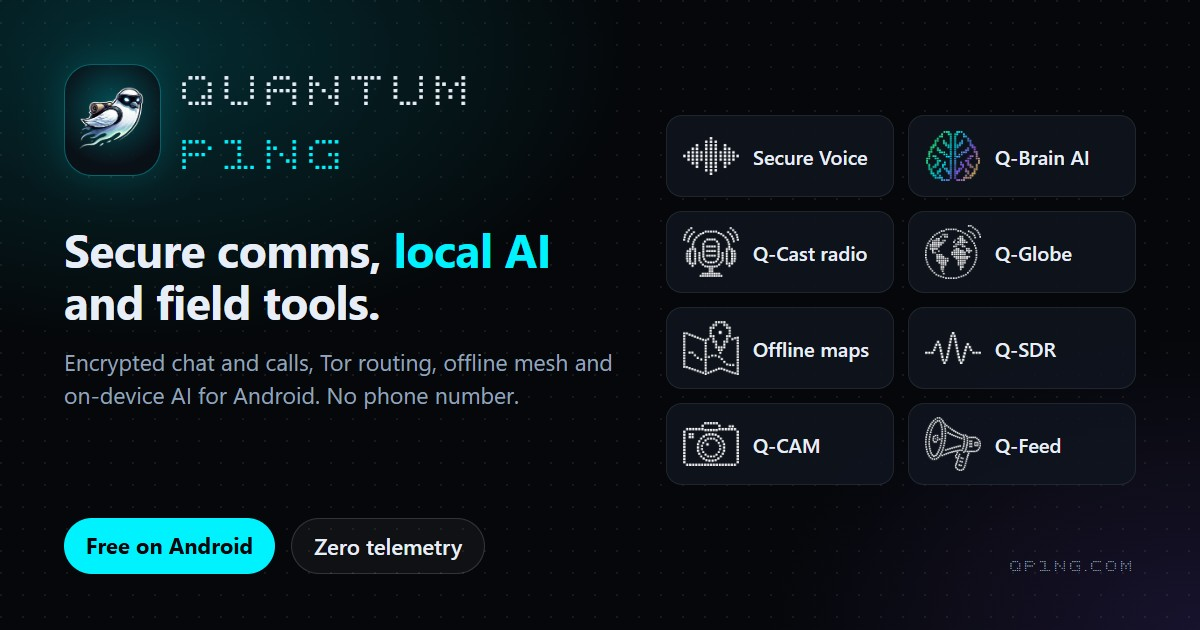
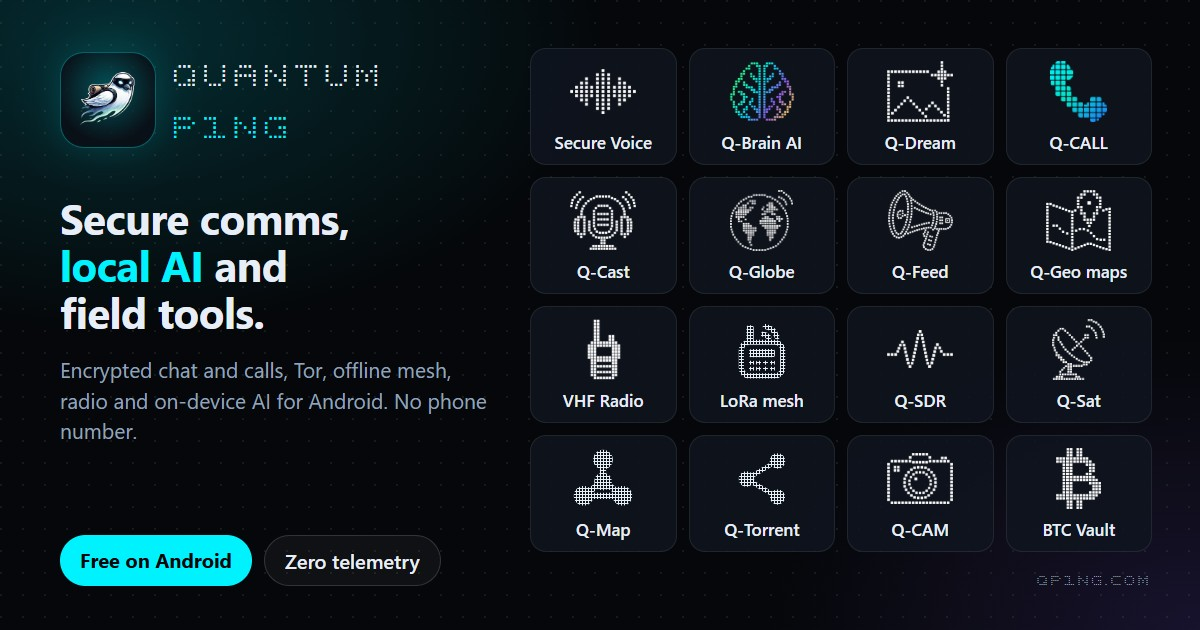
Home and map studio heads: sixteen tools in the home preview, accurate structured data, a Q-Geo card
- Home preview redrawn with sixteen of the app's tools in a 4x4 grid (Secure Voice, Q-Brain AI, Q-Dream, Q-CALL,
  Q-Cast, Q-Globe, Q-Feed, Q-Geo, VHF radio, LoRa mesh, Q-SDR, Q-Sat, Q-Map, Q-Torrent, Q-CAM, BTC vault), the
  home's dot-matrix icons; LoRa, Q-Map and Q-Torrent use the app's vector icons in the same dotted look.
- Home structured data matches the product: Android 8.0 or later (the Linux shell runs inside the app), Core free and
  Pro EUR 9.99 instead of "10 USD", downloads from /pro/, no invented version "1.0.0-gold" or size "48MB",
  ZonkeyNet as on the legal pages.
- Home head: og:title like the title; no X-Content-Type-Options meta (only the HTTP header works, and the gateway
  sends it); no shrink-to-fit; no preload of two video posters far down the page.
- pmtiles.html (Q-Geo Map Studio): its own 1200x630 preview (og-geo.jpg), canonical, theme-color, robots, complete
  Open Graph and X cards, schema.org WebApplication (free, in the browser).

Checked in Chrome: home and map studio load with no CSP or console errors, structured data parses.

diff --git a/docs/index.html b/docs/index.html
@@ -2,11 +2,10 @@
 <html lang="en">
 <head>
   <meta charset="utf-8" />
-  <meta name="viewport" content="width=device-width, initial-scale=1, shrink-to-fit=no" />
+  <meta name="viewport" content="width=device-width, initial-scale=1" />
 
   <meta http-equiv="Content-Security-Policy" content="default-src 'self'; img-src 'self' data: blob: https://github.com https://raw.githubusercontent.com https://*.tile.openstreetmap.org https://tile.openstreetmap.org https://*.arcgisonline.com https://server.arcgisonline.com https://services.arcgisonline.com; font-src 'self' data:; media-src 'self' data: blob:; style-src 'self' 'unsafe-inline'; script-src 'self' 'unsafe-inline' 'unsafe-eval'; connect-src 'self' https://api.qp1ng.com wss://api.qp1ng.com https://raw.githubusercontent.com https://zonkeynet.github.io https://*.tile.openstreetmap.org https://tile.openstreetmap.org https://*.arcgisonline.com https://server.arcgisonline.com https://services.arcgisonline.com https://nominatim.openstreetmap.org https://build.protomaps.com https://slice.openstreetmap.us blob:; object-src 'none'; worker-src 'self' blob:;" />
   <meta name="referrer" content="no-referrer" />
-  <meta http-equiv="X-Content-Type-Options" content="nosniff" />
 
   <meta name="theme-color" content="#0b0f14" />
   <link rel="icon" type="image/png" sizes="32x32" href="assets/img/favicon-32.png" />
@@ -21,7 +20,7 @@
   <meta name="description" content="Quantum P1NG for Android: secure messaging, local AI, encrypted vaults and field tools. Broadcast with Q-Cast and explore radio stations on Q-Globe." />
 
   <meta name="keywords" content="Tor messaging, secure notes, encrypted vault, local AI, secure dictation, emergency workflows, RadioBridge, RF lab tools, Q-Cast, Q-Globe, Tor radio, internet radio, OPSEC, anti-forensics, qp1ng" />
-  <meta name="author" content="Zonkeynet" />
+  <meta name="author" content="ZonkeyNet" />
   <meta name="robots" content="index, follow, max-image-preview:large, max-snippet:-1, max-video-preview:-1" />
 
   <!-- Open Graph / Facebook -->
@@ -29,14 +28,14 @@
   <meta property="og:url" content="https://www.qp1ng.com/" />
   <meta property="og:site_name" content="Quantum P1NG" />
   <meta property="og:locale" content="en_US" />
-  <meta property="og:title" content="Quantum P1NG - OPSEC-First Secure Communications Suite" />
+  <meta property="og:title" content="Quantum P1NG - Secure Comms, Local AI & Field Tools" />
   <meta property="og:description" content="Quantum P1NG for Android: secure messaging, local AI, encrypted vaults and field tools. Broadcast with Q-Cast and explore radio stations on Q-Globe." />
   <meta property="og:image" content="https://www.qp1ng.com/assets/img/social-preview-1200.jpg" />
   <meta property="og:image:secure_url" content="https://www.qp1ng.com/assets/img/social-preview-1200.jpg" />
   <meta property="og:image:type" content="image/jpeg" />
   <meta property="og:image:width" content="1200" />
   <meta property="og:image:height" content="630" />
-  <meta property="og:image:alt" content="Quantum P1NG: secure comms, local AI and field tools for Android: Secure Voice, Q-Brain AI, Q-Cast, Q-Globe, offline maps, Q-SDR, Q-CAM, Q-Feed" />
+  <meta property="og:image:alt" content="Quantum P1NG: secure comms, local AI and field tools for Android: Secure Voice, Q-Brain AI, Q-Dream, Q-CALL, Q-Cast, Q-Globe, Q-Feed, Q-Geo maps, VHF radio, LoRa mesh, Q-SDR, Q-Sat, Q-Map, Q-Torrent, Q-CAM and the Bitcoin vault" />
 
   <!-- Twitter / X -->
   <meta name="twitter:card" content="summary_large_image" />
@@ -45,14 +44,12 @@
   <meta name="twitter:title" content="Quantum P1NG - Secure Comms, Local AI & Field Tools" />
   <meta name="twitter:description" content="Quantum P1NG for Android: secure messaging, local AI, encrypted vaults and field tools. Broadcast with Q-Cast and explore radio stations on Q-Globe." />
   <meta name="twitter:image" content="https://www.qp1ng.com/assets/img/social-preview-1200.jpg" />
-  <meta name="twitter:image:alt" content="Quantum P1NG: secure comms, local AI and field tools for Android: Secure Voice, Q-Brain AI, Q-Cast, Q-Globe, offline maps, Q-SDR, Q-CAM, Q-Feed" />
+  <meta name="twitter:image:alt" content="Quantum P1NG: secure comms, local AI and field tools for Android: Secure Voice, Q-Brain AI, Q-Dream, Q-CALL, Q-Cast, Q-Globe, Q-Feed, Q-Geo maps, VHF radio, LoRa mesh, Q-SDR, Q-Sat, Q-Map, Q-Torrent, Q-CAM and the Bitcoin vault" />
 
   <link rel="preload" href="assets/fonts/square_dot_digital_qp1ng.woff2" as="font" type="font/woff2" crossorigin />
   <link rel="preload" href="styles.css?v=3.1.5" as="style" />
   <link rel="preload" as="image" href="assets/vid/intro_bg_poster.webp" type="image/webp" media="(min-width: 769px)" fetchpriority="high" />
   <link rel="preload" as="image" href="assets/vid/intro_mobile_poster.webp" type="image/webp" media="(max-width: 768px)" fetchpriority="high" />
-  <link rel="preload" as="image" href="assets/vid/qmap_poster.webp">
-  <link rel="preload" as="image" href="assets/vid/btc_vault_poster.webp" type="image/webp">
   <link rel="preload" as="image" href="assets/img/qp1ng_icon.png" fetchpriority="high" />
   <script>
     try {
@@ -79,7 +76,7 @@
         "@id": "https://www.qp1ng.com/#website",
         "url": "https://www.qp1ng.com/",
         "name": "Quantum P1NG",
-        "description": "OPSEC-first Android and Linux suite for private communications, encrypted vaults, local AI dictation, and offline field tools.",
+        "description": "OPSEC-first Android suite for private communications, encrypted vaults, local AI and offline field tools.",
         "publisher": {
           "@id": "https://www.qp1ng.com/#organization"
         },
@@ -88,7 +85,7 @@
       {
         "@type": "Organization",
         "@id": "https://www.qp1ng.com/#organization",
-        "name": "Zonkeynet",
+        "name": "ZonkeyNet",
         "url": "https://www.qp1ng.com/",
         "logo": {
           "@type": "ImageObject",
@@ -119,29 +116,41 @@
           "Quantum P1NG Suite"
         ],
         "applicationCategory": "SecurityApplication",
-        "operatingSystem": "Android, Linux",
-        "softwareVersion": "1.0.0-gold",
-        "fileSize": "48MB",
+        "operatingSystem": "Android 8.0 or later",
         "license": "https://www.qp1ng.com/license.html",
         "description": "OPSEC-first Android suite for private communications, encrypted vaults, local AI, secure dictation, emergency workflows and optional RF lab tools.",
         "url": "https://www.qp1ng.com/",
-        "downloadUrl": "https://github.com/zonkeynet/Quantum-P1NG/releases",
-        "installUrl": "https://github.com/zonkeynet/Quantum-P1NG/releases/latest",
+        "downloadUrl": "https://www.qp1ng.com/pro/#download",
         "image": "https://www.qp1ng.com/assets/img/qp1ng_icon.png",
         "screenshot": [
-          "https://www.qp1ng.com/assets/img/social-preview.png",
+          "https://www.qp1ng.com/assets/img/social-preview-1200.jpg",
           "https://www.qp1ng.com/assets/img/qcam_manifestation_protected.jpg",
           "https://www.qp1ng.com/assets/img/net_invisibility.png"
         ],
-        "offers": {
-          "@type": "Offer",
-          "price": "10",
-          "priceCurrency": "USD",
-          "availability": "https://schema.org/InStock",
-          "seller": {
-            "@id": "https://www.qp1ng.com/#organization"
+        "offers": [
+          {
+            "@type": "Offer",
+            "name": "Q-P1NG Core",
+            "price": "0",
+            "priceCurrency": "EUR",
+            "availability": "https://schema.org/InStock",
+            "url": "https://www.qp1ng.com/pro/#download",
+            "seller": {
+              "@id": "https://www.qp1ng.com/#organization"
+            }
+          },
+          {
+            "@type": "Offer",
+            "name": "Q-P1NG Pro, lifetime licence",
+            "price": "9.99",
+            "priceCurrency": "EUR",
+            "availability": "https://schema.org/InStock",
+            "url": "https://www.qp1ng.com/pro/",
+            "seller": {
+              "@id": "https://www.qp1ng.com/#organization"
+            }
           }
-        },
+        ],
         "featureList": [
           "Optical and Acoustic Links (No RF Link Required)",
           "Local Whisper STT speech-to-text dictation and private voice notes without cloud APIs",
@@ -203,7 +212,7 @@
             "name": "What is Quantum P1NG?",
             "acceptedAnswer": {
               "@type": "Answer",
-              "text": "Quantum P1NG is an OPSEC-first tactical Android and Linux suite engineered for high-threat environments. It combines decentralized zero-metadata messaging, encrypted offline vaults, local AI voice dictation, tactical GIS mapping, and hardware RF integrations without relying on centralized servers or cloud infrastructure."
+              "text": "Quantum P1NG is an OPSEC-first tactical Android suite engineered for high-threat environments. It combines decentralized zero-metadata messaging, encrypted offline vaults, local AI voice dictation, tactical GIS mapping, and hardware RF integrations without relying on centralized servers or cloud infrastructure."
             }
           },
           {

diff --git a/docs/pmtiles.html b/docs/pmtiles.html
@@ -5,14 +5,43 @@
   <meta name="viewport" content="width=device-width, initial-scale=1.0, viewport-fit=cover">
   <title>Q-Geo Map Studio — Quantum P1NG</title>
   <meta name="description" content="Prepare offline vector map regions (.pmtiles) for Quantum P1NG. Explore online street and satellite maps, then extract a local map for offline use.">
+  <meta name="theme-color" content="#040910">
+  <meta name="robots" content="index, follow, max-image-preview:large">
+  <link rel="canonical" href="https://www.qp1ng.com/pmtiles.html">
   <link rel="icon" type="image/png" sizes="32x32" href="assets/img/favicon-32.png">
   <link rel="apple-touch-icon" href="assets/img/apple-touch-icon.png">
 
   <!-- OpenGraph / Social Meta -->
+  <meta property="og:type" content="website">
+  <meta property="og:site_name" content="Quantum P1NG">
+  <meta property="og:locale" content="en_US">
   <meta property="og:title" content="Q-Geo Map Studio — Quantum P1NG">
   <meta property="og:description" content="Explore online maps and prepare PMTiles vector regions for offline use in Quantum P1NG.">
-  <meta property="og:image" content="https://www.qp1ng.com/assets/img/social-preview-1200.jpg">
   <meta property="og:url" content="https://www.qp1ng.com/pmtiles.html">
+  <meta property="og:image" content="https://www.qp1ng.com/assets/img/og-geo.jpg">
+  <meta property="og:image:type" content="image/jpeg">
+  <meta property="og:image:width" content="1200">
+  <meta property="og:image:height" content="630">
+  <meta property="og:image:alt" content="Q-Geo Map Studio: street and satellite maps, place search, drawing an area and extracting it as a .pmtiles file for offline use in Q-P1NG">
+  <meta name="twitter:card" content="summary_large_image">
+  <meta name="twitter:title" content="Q-Geo Map Studio — Quantum P1NG">
+  <meta name="twitter:description" content="Explore online maps and prepare PMTiles vector regions for offline use in Quantum P1NG.">
+  <meta name="twitter:image" content="https://www.qp1ng.com/assets/img/og-geo.jpg">
+  <meta name="twitter:image:alt" content="Q-Geo Map Studio: street and satellite maps, place search, drawing an area and extracting it as a .pmtiles file for offline use in Q-P1NG">
+  <script type="application/ld+json">
+  {
+    "@context": "https://schema.org",
+    "@type": "WebApplication",
+    "name": "Q-Geo Map Studio",
+    "url": "https://www.qp1ng.com/pmtiles.html",
+    "description": "Explore street and satellite maps in the browser, draw an area and extract it as a PMTiles vector map for offline use in Quantum P1NG.",
+    "applicationCategory": "TravelApplication",
+    "operatingSystem": "Any (web browser)",
+    "image": "https://www.qp1ng.com/assets/img/og-geo.jpg",
+    "offers": { "@type": "Offer", "price": "0", "priceCurrency": "EUR" },
+    "publisher": { "@type": "Organization", "name": "ZonkeyNet", "url": "https://www.qp1ng.com/" }
+  }
+  </script>
 
   <!-- Content Security Policy (Self-hosted & GIS Mapping Enabled) -->
   <meta http-equiv="Content-Security-Policy" content="default-src 'self'; script-src 'self' 'unsafe-inline' 'unsafe-eval'; style-src 'self' 'unsafe-inline'; img-src 'self' data: blob: https://github.com https://raw.githubusercontent.com https://*.tile.openstreetmap.org https://tile.openstreetmap.org https://*.arcgisonline.com https://server.arcgisonline.com https://services.arcgisonline.com; font-src 'self' data:; media-src 'self' data: blob:; worker-src 'self' blob:; connect-src 'self' https://api.qp1ng.com wss://api.qp1ng.com https://raw.githubusercontent.com https://zonkeynet.github.io https://*.tile.openstreetmap.org https://tile.openstreetmap.org https://*.arcgisonline.com https://server.arcgisonline.com https://services.arcgisonline.com https://nominatim.openstreetmap.org https://build.protomaps.com https://build-metadata.protomaps.dev https://slice.openstreetmap.us blob:; object-src 'none';" />
